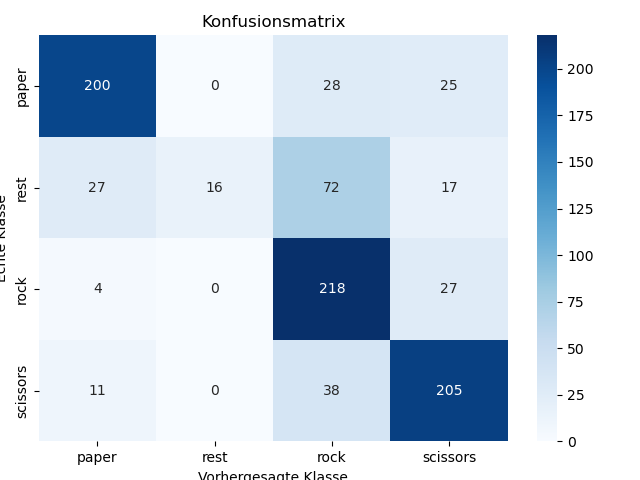
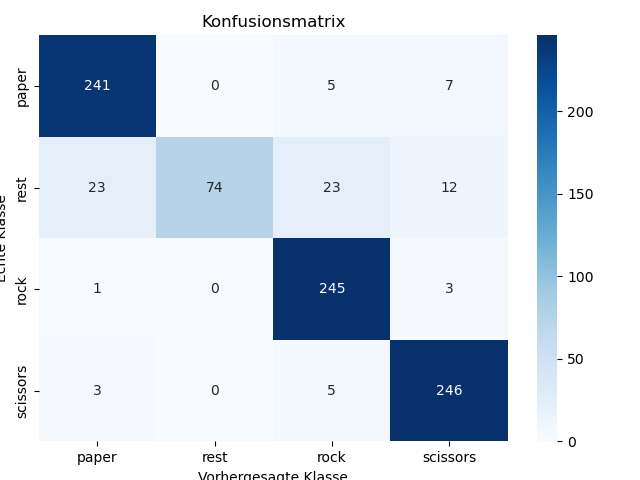
add own cnn conv mat, architecture ... with better acc

diff --git a/trainer.py b/trainer.py
@@ -31,31 +31,28 @@ class Trainer:
                                    filename="Batch_Augmentation" + data_aug + str(self.img_height) + "x" + str(
                                        self.img_height) + ".png")
 
-        model=self.cnnModel.get_model(self.img_height,self.img_width)
-        plot_model(model, to_file='DLO_Graphs/resnet-backbone.png', show_shapes=True, show_layer_names=True)
+        backbone = self.model_pretrained.createBackboneModel(vgg=True)
+        backbone.summary()
+        # plot_model(backbone, to_file='DLO_Graphs/resnet-backbone.png', show_shapes=True, show_layer_names=True)
 
-        # backbone = self.model_pretrained.createBackboneModel(vgg=True)
-        # backbone.summary()
-        # # plot_model(backbone, to_file='DLO_Graphs/resnet-backbone.png', show_shapes=True, show_layer_names=True)
-        #
-        # model = self.model_pretrained.getModel(backbone, lr=1e-4, drpout1=0.3, drpout2=0.2)
-        # model.summary()
-        # # plot_model(model, to_file='DLO_Graphs/resnet-model.png', show_shapes=True, show_layer_names=True)
-        #
-        # callbacks, best_model_weights = self.model_pretrained.getCallBacks(data_aug)
-        #
-        # history = model.fit(
-        #     train_dataset,
-        #     epochs=self.epochs,
-        #     validation_data=valid_dataset,
-        #     callbacks=callbacks,
-        #     verbose=1
-        # )
-        #
-        # if plot:
-        #     self.plot_history(history)
-        #
-        # self.saveModel(best_model_weights, model, valid_dataset)
+        model = self.model_pretrained.getModel(backbone, lr=1e-4, drpout1=0.3, drpout2=0.2)
+        model.summary()
+        # plot_model(model, to_file='DLO_Graphs/resnet-model.png', show_shapes=True, show_layer_names=True)
+
+        callbacks, best_model_weights = self.model_pretrained.getCallBacks(data_aug)
+
+        history = model.fit(
+            train_dataset,
+            epochs=self.epochs,
+            validation_data=valid_dataset,
+            callbacks=callbacks,
+            verbose=1
+        )
+
+        if plot:
+            self.plot_history(history)
+
+        self.saveModel(best_model_weights, model, valid_dataset)
 
     def plot_history(self, history):
         print("History keys: " + str(history.history.keys()))
